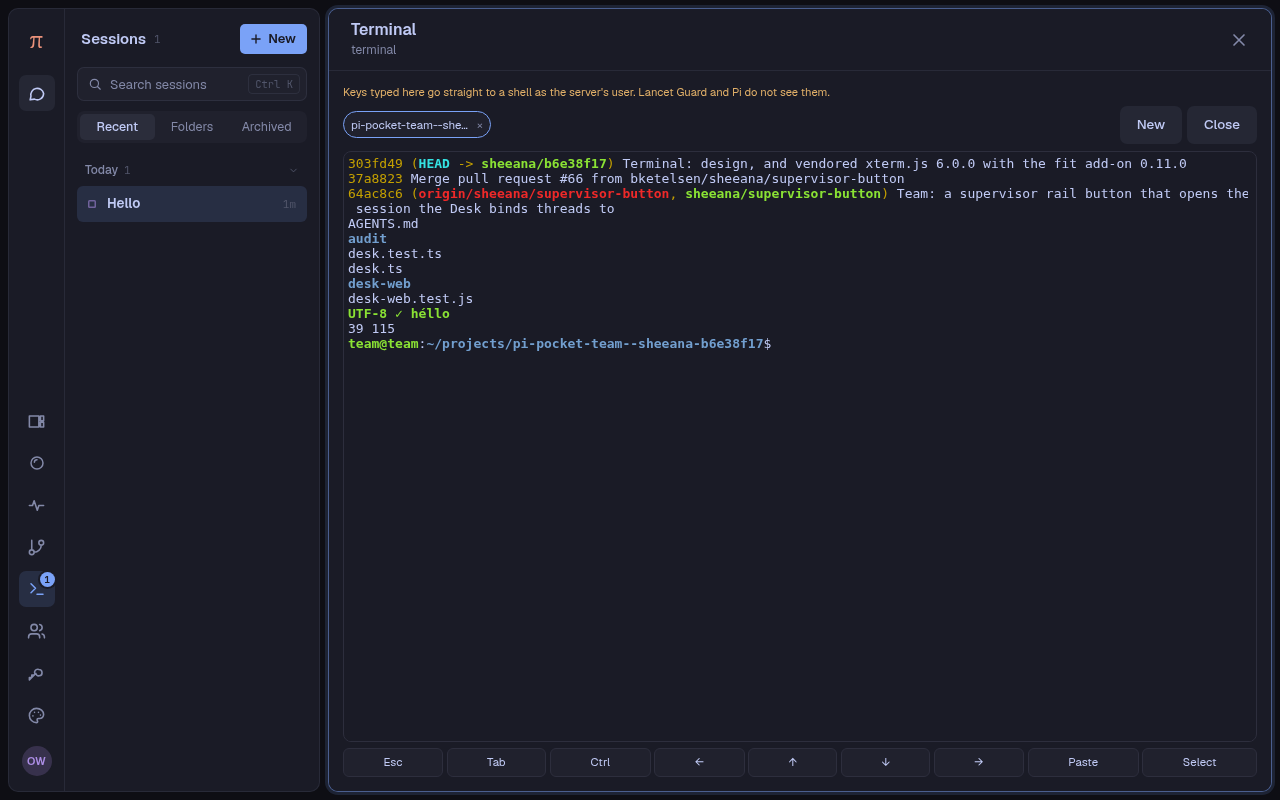
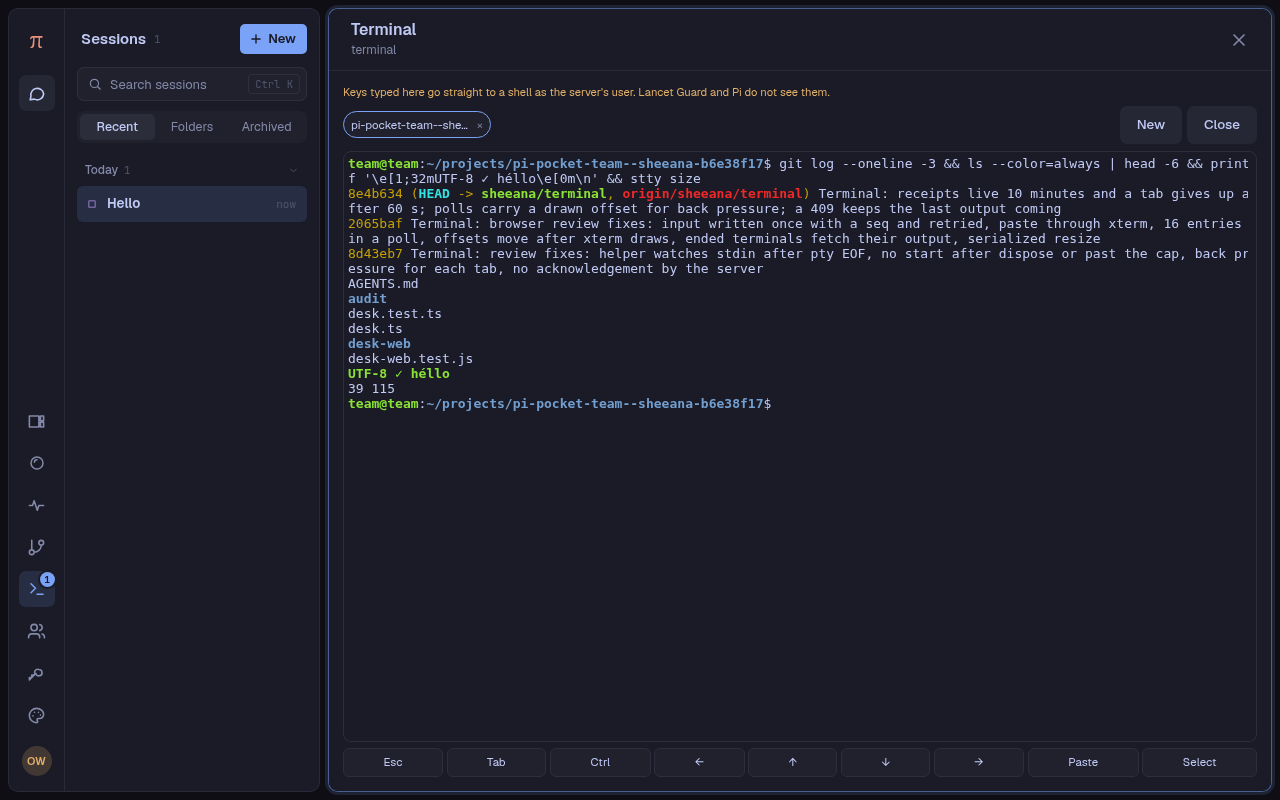
Terminal: a chunk's 60 s deadline also aborts its request in flight (deliver()); fresh screenshots

Changed region(s): [[0.25, 0.1875, 0.9688, 0.5312], [0.0, 0.9375, 0.0625, 0.9688]]

diff --git a/terminal-web/index.js b/terminal-web/index.js
@@ -61,8 +61,8 @@ export function pollRecords(records, max = POLL_MAX) {
 export const GIVE_UP_MS = 60_000;
 
 /** Whether a chunk that has gone unanswered since `startedAt` may be tried again at `now`. */
-export function retryAllowed(startedAt, now) {
-    return now - startedAt < GIVE_UP_MS;
+export function retryAllowed(startedAt, now, giveUpMs = GIVE_UP_MS) {
+    return now - startedAt < giveUpMs;
 }
 
 /**
@@ -83,6 +83,81 @@ export function afterFailure(status) {
 
 /** A wait that a close or a stop need not cut short: the caller looks at its own flags after it. */
 const delay = (ms) => new Promise((resolve) => setTimeout(resolve, ms));
+
+/**
+ * Delivers 1 chunk of input: `send(signal)` makes the request, and is tried again after a failure with no answer, with
+ * the same seq (the caller's), until `giveUpMs` has passed since the first try. The deadline also aborts a request in
+ * flight, so a request that never settles cannot hold the chunk past it. `signal` is the terminal's own (a close, a
+ * stop). `onWait` runs before each wait for a retry. It resolves with "sent", "gone" (404), "closed" (409: the shell
+ * exited), "lost" (the deadline passed: the text may or may not have reached the shell, and is never sent again by
+ * itself), or "stopped" (`signal` aborted).
+ */
+export async function deliver({ send, signal, giveUpMs = GIVE_UP_MS, onWait = () => {} }) {
+    const deadline = new AbortController();
+    const timer = setTimeout(() => deadline.abort(), giveUpMs);
+    const both = new AbortController();
+    const stop = () => both.abort();
+
+    signal.addEventListener("abort", stop, { once: true });
+    deadline.signal.addEventListener("abort", stop, { once: true });
+
+    if (signal.aborted) {
+        stop();
+    }
+
+    const started = Date.now();
+
+    try {
+        for (let attempt = 0; ; attempt++) {
+            if (signal.aborted) {
+                return "stopped";
+            }
+
+            if (deadline.signal.aborted || !retryAllowed(started, Date.now(), giveUpMs)) {
+                return "lost";
+            }
+
+            try {
+                await send(both.signal);
+
+                return "sent";
+            } catch (failure) {
+                if (signal.aborted) {
+                    return "stopped";
+                }
+
+                if (deadline.signal.aborted) {
+                    return "lost";
+                }
+
+                const what = afterFailure(failure?.status);
+
+                if (what !== "retry") {
+                    return what;
+                }
+            }
+
+            onWait();
+
+            // The wait for a retry ends at the deadline too: the loop then says "lost".
+            await new Promise((resolve) => {
+                const wait = setTimeout(resolve, backoffMs(attempt));
+
+                both.signal.addEventListener(
+                    "abort",
+                    () => {
+                        clearTimeout(wait);
+                        resolve();
+                    },
+                    { once: true },
+                );
+            });
+        }
+    } finally {
+        clearTimeout(timer);
+        signal.removeEventListener("abort", stop);
+    }
+}
 
 const GONE = "This terminal ended (the server restarted or the module reloaded)";
 
@@ -388,63 +463,45 @@ export default function setup(pocket) {
 
                 const chunk = record.pending.slice(0, size);
                 const seq = record.seq + 1;
-                const startedAt = Date.now();
 
                 record.pending = record.pending.slice(size);
 
-                for (let attempt = 0; ; attempt++) {
-                    // 60 s with no answer: the text stays for a Discard, and this chunk never goes again by itself.
-                    if (!retryAllowed(startedAt, Date.now())) {
-                        record.lost = { text: chunk, seq };
-                        record.waiting = false;
-                        bump();
-
-                        return;
-                    }
-
-                    try {
-                        await pocket.api(
+                // The same seq on every try, which the server writes once; 60 s at most, a request in flight too.
+                const what = await deliver({
+                    send: (signal) =>
+                        pocket.api(
                             `terminals/${record.id}/input`,
                             { data: chunk, tab, seq },
-                            { signal: record.abort.signal },
-                        );
-                        record.seq = seq;
-                        break;
-                    } catch (failure) {
-                        const what = afterFailure(failure?.status);
-
-                        if (what === "gone") {
-                            ended(record, GONE);
-
-                            return;
-                        }
-
-                        if (what === "closed") {
-                            // The shell exited: its last output still comes in a poll, and no key can reach it.
-                            record.inputClosed = true;
-                            record.waiting = false;
-                            bump();
-
-                            return;
-                        }
-
-                        if (!typable(record)) {
-                            return;
-                        }
-
-                        // No answer: the text waits here, and the same seq goes again, which the server writes once.
+                            { signal },
+                        ),
+                    signal: record.abort.signal,
+                    onWait: () => {
                         if (!record.waiting) {
                             record.waiting = true;
                             bump();
                         }
+                    },
+                });
 
-                        await delay(backoffMs(attempt));
-
-                        if (!typable(record)) {
-                            return;
-                        }
-                    }
+                if (what === "sent") {
+                    record.seq = seq;
+                    continue;
                 }
+
+                if (what === "gone") {
+                    ended(record, GONE);
+                } else if (what === "closed") {
+                    // The shell exited: its last output still comes in a poll, and no key can reach it.
+                    record.inputClosed = true;
+                } else if (what === "lost") {
+                    // 60 s with no answer: the text stays for a Discard, and this chunk never goes again by itself.
+                    record.lost = { text: chunk, seq };
+                }
+
+                record.waiting = false;
+                bump();
+
+                return;
             }
         } finally {
             record.sending = false;

diff --git a/terminal-web.test.js b/terminal-web.test.js
@@ -6,6 +6,7 @@ import { test } from "node:test";
 import {
     afterFailure,
     backoffMs,
+    deliver,
     GIVE_UP_MS,
     newTabId,
     POLL_MAX,
@@ -108,4 +109,69 @@ test("a failed request says which it is: gone, a shell that closed, or a retry",
     assert.equal(afterFailure(429), "retry");
     assert.equal(afterFailure(undefined), "retry");
     assert.equal(afterFailure(0), "retry");
+});
+
+/** A request that never settles until its signal aborts, as a server that took the POST and never answered. */
+const hanging = (calls) => (signal) =>
+    new Promise((_resolve, reject) => {
+        calls.push(signal);
+        signal.addEventListener("abort", () => reject(new DOMException("aborted", "AbortError")));
+    });
+
+test("a chunk whose request never settles is lost at the deadline, and its request is aborted", async () => {
+    const calls = [];
+    const outcome = await deliver({
+        send: hanging(calls),
+        signal: new AbortController().signal,
+        giveUpMs: 50,
+    });
+
+    assert.equal(outcome, "lost");
+    assert.equal(calls.length, 1, "no second send of the same chunk after the deadline");
+    assert.equal(calls[0].aborted, true, "the request in flight was aborted");
+});
+
+test("a chunk is retried with no answer, and the deadline ends the wait between tries too", async () => {
+    let sends = 0;
+    let waits = 0;
+    const started = Date.now();
+    const outcome = await deliver({
+        send: async () => {
+            sends++;
+
+            throw new TypeError("network");
+        },
+        signal: new AbortController().signal,
+        giveUpMs: 700,
+        onWait: () => waits++,
+    });
+
+    assert.equal(outcome, "lost");
+    assert.equal(
+        sends,
+        2,
+        "the first try, and 1 after the 0.5 s wait; the 1 s wait ends at the deadline",
+    );
+    assert.equal(waits, 2);
+    assert.ok(Date.now() - started < 1_200, "the deadline cut the second wait short");
+});
+
+test("a delivered chunk, a 404, a 409, and a close each end delivery as they should", async () => {
+    const open = () => new AbortController().signal;
+
+    const failing = (status) => async () => {
+        throw Object.assign(new Error("no"), { status });
+    };
+
+    assert.equal(await deliver({ send: async () => ({}), signal: open() }), "sent");
+    assert.equal(await deliver({ send: failing(404), signal: open() }), "gone");
+    assert.equal(await deliver({ send: failing(409), signal: open() }), "closed");
+
+    const closing = new AbortController();
+    const calls = [];
+    const pending = deliver({ send: hanging(calls), signal: closing.signal, giveUpMs: 10_000 });
+
+    closing.abort();
+    assert.equal(await pending, "stopped");
+    assert.equal(calls[0].aborted, true);
 });

diff --git a/README.md b/README.md
@@ -488,7 +488,7 @@ A "Terminal" rail page that opens a login shell as the server's user in a folder
 - **The shell:** `python3 -I -c <helper> <login shell> <folder> <rows> <cols>`, where the helper is a pty carried in `terminal.ts`. `PI_POCKET_TERMINAL_SHELL` replaces the login shell (tests use it).
 - **Environment:** only the allowlist of the design (`HOME`, `USER`, `LOGNAME`, `SHELL`, `PATH`, `LANG`, `LC_*`, `TZ`, `XDG_RUNTIME_DIR`, `DBUS_SESSION_BUS_ADDRESS`) plus `TERM=xterm-256color` and `COLORTERM=truecolor`. Provider keys, tokens, and Pi Pocket's own variables do not reach the shell.
 - **Limits:** 4 shells at once (a 5th start is a 429, also when starts come at once); the last 256 K characters of each are kept in memory; input is at most 32 K characters a POST (413 above). One poll carries up to 16 terminals, each with up to 256 K characters in one answer: the 4 live ones, plus ended ones that still need their last output.
-- **Keys are written once.** Each chunk of keys carries the tab and that tab's seq, and the server writes only a seq newer than the last one it took from that tab. It keeps each receipt for 10 minutes after the tab's last write (`PI_POCKET_TERMINAL_RECEIPT_MS`), and never drops one for its number: a repeated seq cannot write twice. 16 tabs may type into one terminal; a 17th is a 429. A POST that failed on the way is sent again with the same chunk and the same seq, after 0.5, 1, 2, and 4 s, while the page says "Input waits for the server…". After 60 s the tab gives up: it never sends that chunk again by itself, it shows how many characters may not have reached the shell, and **Discard** drops them.
+- **Keys are written once.** Each chunk of keys carries the tab and that tab's seq, and the server writes only a seq newer than the last one it took from that tab. It keeps each receipt for 10 minutes after the tab's last write (`PI_POCKET_TERMINAL_RECEIPT_MS`), and never drops one for its number: a repeated seq cannot write twice. 16 tabs may type into one terminal; a 17th is a 429. A POST that failed on the way is sent again with the same chunk and the same seq, after 0.5, 1, 2, and 4 s, while the page says "Input waits for the server…". After 60 s the tab gives up, a request in flight too: it never sends that chunk again by itself, it shows how many characters may not have reached the shell, and **Discard** drops them.
 - **A poll carries what the tab received and what its screen drew.** The entry is `id.from.ack`: `from` is the received offset, and `ack` the drawn one, which back pressure follows; a resize goes 1 POST at a time, and a size that changed during one goes right after it. A tab that draws 64 K past the ack of its open poll starts it again, so a paused shell goes on at once.
 - **A 409 is a shell that exited.** Its keys and sizes stop, and the tab keeps polling until the answer with its last output and exit code comes. A 404 (or a `gone` entry) ends the terminal.
 - **Paste** goes through `term.paste()`, so a shell that asked for bracketed paste gets it, in the same queue as the keys.
@@ -498,7 +498,7 @@ A "Terminal" rail page that opens a login shell as the server's user in a folder
 - **What the page says:** "Keys typed here go straight to a shell as the server's user. Lancet Guard and Pi do not see them." That is the point of it, and the rule: this is the server's own shell, not a guarded tool call.
 - **A phone fits:** a key bar with Esc, Tab, Ctrl (sticky), the arrows, Paste (the clipboard, or a box when the browser says no) and Select (the screen as a text box, for the phone's own copy). The shell keeps running while the page is closed; the rail badge counts it.
 
-Tests: `terminal.test.ts` runs real shells in the Pi Pocket test harness with a temporary `HOME`: input and output, `pwd`, resize by `stty size`, the environment allowlist, the session folder, the cap, `DELETE` and the shell's death, `exit 7`, the detach and idle spans, the module turned off, and the 4 roles. The poll's own rules have tests too: 1 answer for 2 shells, each at its own offset, a `gone` id, and a 400 for a bad list. So do the edges: 6 starts at once give 4 shells and 2 answers of 429; a shell that closed its own fds and runs on still ends with a `DELETE`; a start that is in flight when the module goes spawns nothing; and with 2 tabs on one shell, the slow tab loses no character of 2 MB of output. A repeated seq, and an older one, write nothing into the shell, a receipt older than 30 s still blocks a repeat, a 17th writing tab is a 429, and an expired receipt lets it in. A poll of 16 terminals is answered where 17 are refused, and back pressure follows the ack: a tab that received the output but drew little keeps the shell paused. `terminal-web.test.js` holds the browser module's own small rules to account: the tab's id on a plain-HTTP page, the bounded waits, the 60 s give-up rule, what a failed request means, the size that is due, and the terminals one poll carries.
+Tests: `terminal.test.ts` runs real shells in the Pi Pocket test harness with a temporary `HOME`: input and output, `pwd`, resize by `stty size`, the environment allowlist, the session folder, the cap, `DELETE` and the shell's death, `exit 7`, the detach and idle spans, the module turned off, and the 4 roles. The poll's own rules have tests too: 1 answer for 2 shells, each at its own offset, a `gone` id, and a 400 for a bad list. So do the edges: 6 starts at once give 4 shells and 2 answers of 429; a shell that closed its own fds and runs on still ends with a `DELETE`; a start that is in flight when the module goes spawns nothing; and with 2 tabs on one shell, the slow tab loses no character of 2 MB of output. A repeated seq, and an older one, write nothing into the shell, a receipt older than 30 s still blocks a repeat, a 17th writing tab is a 429, and an expired receipt lets it in. A poll of 16 terminals is answered where 17 are refused, and back pressure follows the ack: a tab that received the output but drew little keeps the shell paused. `terminal-web.test.js` holds the browser module's own small rules to account: the tab's id on a plain-HTTP page, the bounded waits, the 60 s give-up rule (a request that never settles is aborted at the deadline), what a failed request means, the size that is due, and the terminals one poll carries.
 
 # Daily audit
 

diff --git a/docs/terminal.md b/docs/terminal.md
@@ -79,8 +79,8 @@ seq }`, and the server keeps, for each tab of a terminal, the last `seq` it wrot
   one is a 400. 16 tabs may type into one terminal at once: a 17th is answered 429, and writes nothing, until one of
   them has been quiet for RECEIPT_MS. Receipts are never dropped for their number: that is what keeps a repeated `seq`
   from writing twice. The browser keeps the chunk until the server has it, and tries it again after 0.5, 1, 2, and 4
-  s, then every 4 s, with a note that reads "Input waits for the server…". It tries a chunk for 60 s in all: after
-  that, the chunk is never sent again by itself, the page says how many characters may not have reached the shell, and
+  s, then every 4 s, with a note that reads "Input waits for the server…". It tries a chunk for 60 s in all, and the deadline also aborts a request in flight
+  (`deliver()`), so a request that never settles cannot hold the chunk longer. After that, the chunk is never sent again by itself, the page says how many characters may not have reached the shell, and
   its **Discard** button drops them, after which typing goes on with the next `seq`. 60 s is far less than
   RECEIPT_MS, so a retry never meets a receipt the server has forgotten.
 - **A 409 is a shell that exited.** On a key or a size, a 404 means the terminal is gone: the tab stops and says so.
